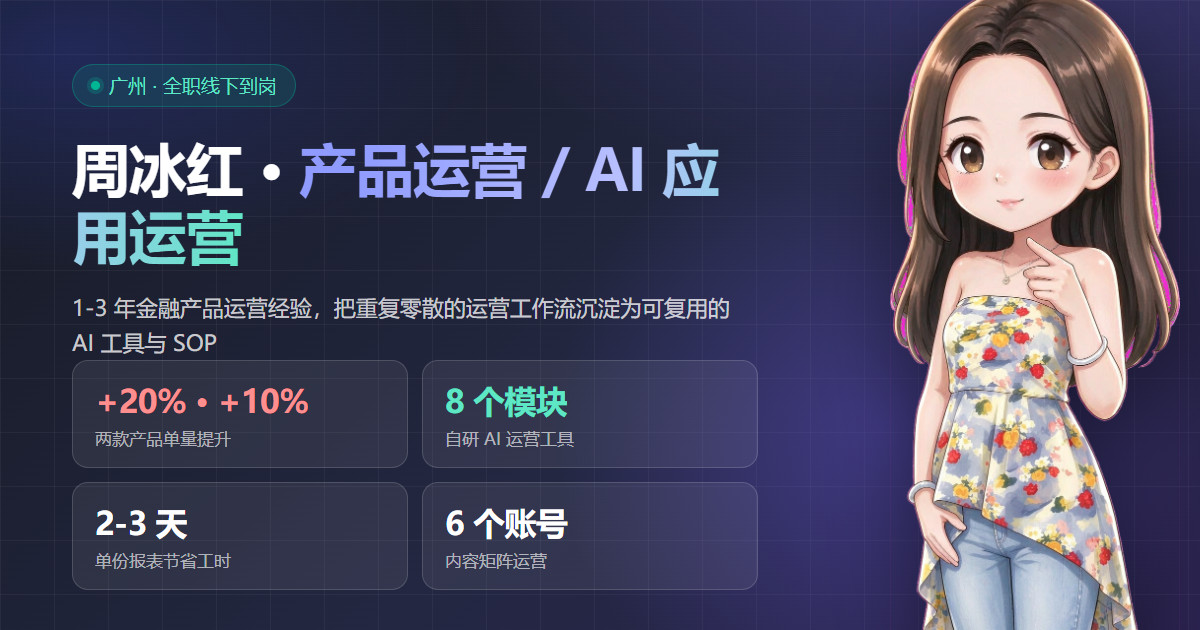
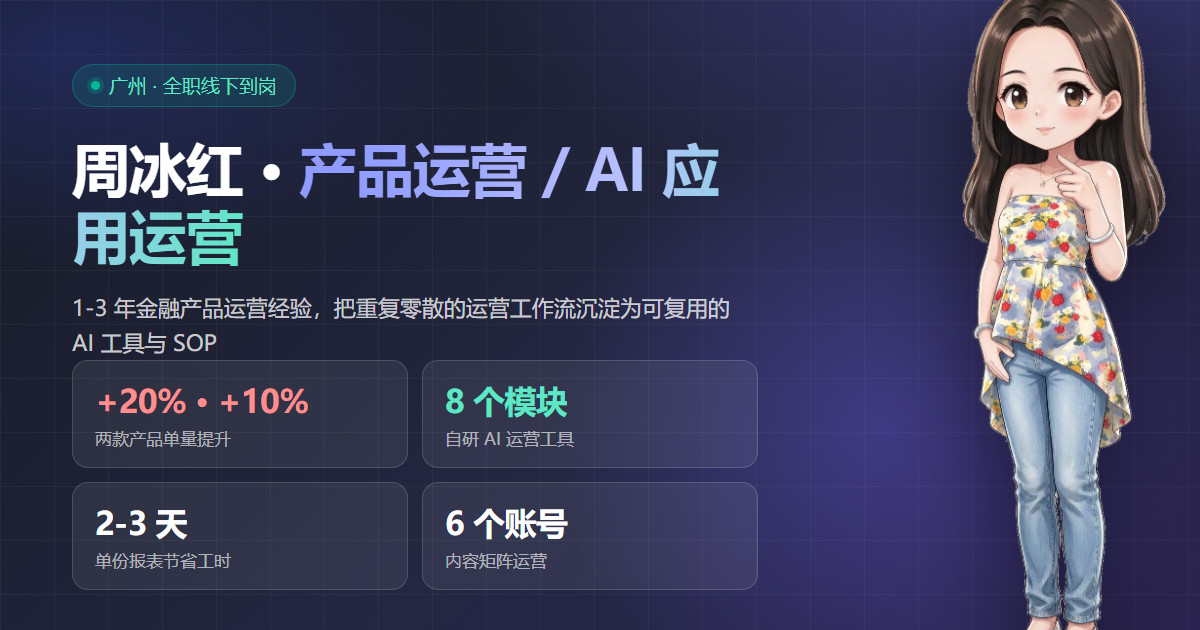
fix: 去掉头发上的紫色反光，手机端人物改为信息专栏下方的底图
- 紫色来源：品红底给人物打了洋红边缘光，抠图无法还原 -> 改用中性灰底重新生成并重抠
- 新立绘 assets/hero-char.webp：距离阈值抠图 + 小洞补色 + 反混色去灰边
- 手机端：人物不再单独占 500+ px，改成「基本信息」下方的底图条（272px，露出头肩并向下淡出）
- 桌面端：人物右缘与屏幕右缘对齐、齐膝盖站立，身后保留毛玻璃面板
- OG 分享卡同步换成新立绘

Changed region(s): [[0.74, 0.0, 0.9867, 1.0]]

diff --git a/index.html b/index.html
@@ -106,9 +106,13 @@ a{color:inherit;text-decoration:none}
   linear-gradient(rgba(18,19,26,.045) 1px,transparent 1px),
   linear-gradient(90deg,rgba(18,19,26,.045) 1px,transparent 1px);
   background-size:56px 56px;mask-image:radial-gradient(circle at 50% 30%,#000,transparent 72%);-webkit-mask-image:radial-gradient(circle at 50% 30%,#000,transparent 72%);pointer-events:none}
-.hero-in{position:relative;z-index:1;display:grid;grid-template-columns:minmax(0,1fr) clamp(240px,26vw,352px);
-  gap:40px;align-items:center;padding-left:max(24px,calc((100vw - 1072px)/2));padding-right:0}
-.hero-copy{max-width:620px}
+.hero-in{position:relative;z-index:1;display:grid;
+  grid-template-columns:minmax(0,1fr) clamp(168px,18.5vw,242px);
+  grid-template-areas:"copy figure" "facts figure";grid-template-rows:auto auto;
+  row-gap:24px;column-gap:40px;align-items:start;
+  padding-left:max(24px,calc((100vw - 1072px)/2));padding-right:0}
+.hero-copy{grid-area:copy;max-width:620px}
+.hero-facts{grid-area:facts;max-width:620px}
 .hero-top{display:flex;align-items:center;gap:14px;flex-wrap:wrap}
 .hero-id{display:flex;align-items:center;gap:9px;font-size:13.5px;color:var(--ink-3)}
 .hero-id b{color:var(--ink);font-weight:700;font-size:15px;letter-spacing:-.01em}
@@ -174,15 +178,22 @@ h1 .grad{background:linear-gradient(105deg,var(--brand) 8%,var(--brand-2) 58%,va
 .stage-bars i:nth-child(4){height:56%}
 .stage-bars i:nth-child(5){height:82%}
 /* 人物：站在页面上，右缘与屏幕右缘对齐 */
-.hero-figure{position:relative;align-self:end;justify-self:end;width:100%;max-width:clamp(240px,26vw,352px)}
+.hero-figure{position:relative;grid-area:figure;align-self:end;justify-self:end;width:100%}
 .hero-figure::before{content:"";position:absolute;left:50%;top:14%;width:128%;height:70%;transform:translateX(-50%);
   border-radius:50%;background:radial-gradient(circle,rgba(108,92,231,.18),rgba(0,184,148,.07) 52%,transparent 72%);z-index:-1}
 .hero-figure img{width:100%;height:auto;display:block;position:relative;
   filter:drop-shadow(0 44px 48px rgba(31,35,66,.20))}
-/* 窄屏：收起玻璃面板，只留人物，姓名/职位/标签都在左侧文案区 */
+/* 窄屏：收起玻璃面板；人物做成「基本信息」下方的底图，不再单独占一大截 */
 @media(max-width:900px){
+  .hero-in{grid-template-areas:"copy" "facts" "figure";grid-template-columns:minmax(0,1fr);
+    row-gap:0;column-gap:0;padding-left:24px;padding-right:24px}
+  .hero-copy,.hero-facts{max-width:none}
   .hero-stage{display:none}
-  .hero-figure{justify-self:center;width:min(72%,282px);max-width:none}
+  .hero-figure{justify-self:stretch;width:auto;height:272px;margin-top:6px;overflow:hidden;
+    -webkit-mask-image:linear-gradient(0deg,transparent 0,#000 16%);mask-image:linear-gradient(0deg,transparent 0,#000 16%)}
+  .hero-figure::before{top:6%;width:120%;height:86%}
+  .hero-figure img{position:absolute;right:5%;top:-30px;width:auto;height:720px;
+    filter:drop-shadow(0 22px 30px rgba(31,35,66,.16))}
 }
 
 /* ---------- 基本信息（左栏小卡，两列） ---------- */
@@ -613,6 +624,8 @@ footer{border-top:1px solid var(--line);padding:30px 0;color:var(--ink-3);font-s
         <a class="btn btn-d" href="resume.pdf" download>下载简历 PDF</a>
         <a class="btn btn-s" href="#contact">联系我</a>
       </div>
+    </div>
+    <div class="hero-facts">
       <div class="fact fact-grid">
         <div class="fact-row"><span>所在城市</span><b>广州</b></div>
         <div class="fact-row"><span>期望城市</span><b>广州</b></div>
@@ -625,7 +638,7 @@ footer{border-top:1px solid var(--line);padding:30px 0;color:var(--ink-3);font-s
       </div>
     </div>
     <figure class="hero-figure">
-      <img src="assets/hero-char.webp" alt="周冰红的动漫形象" width="588" height="1433" fetchpriority="high">
+      <img src="assets/hero-char.webp" alt="周冰红的动漫形象" width="417" height="1434" fetchpriority="high">
     </figure>
   </div>
   <div class="wrap hero-kpis">
